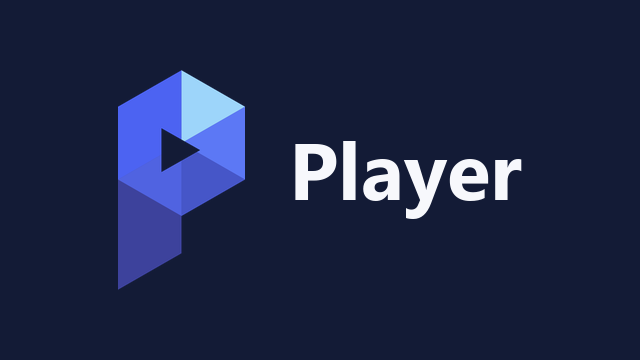
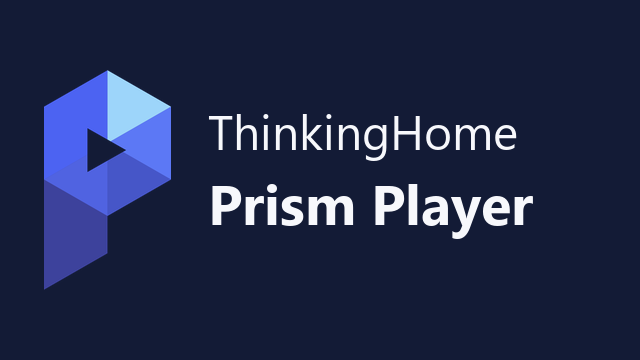
Подготовить Prism Player к распространению только на Android TV
- Сделать поддержку Android TV обязательной и закрепить альбомную ориентацию
- Увеличить launcher-иконки до TV-размеров и обновить баннеры
- Добавить генератор баннера для карточки Google Play
- Повысить versionCode до 26

Changed region(s): [[0.0625, 0.1833, 0.8438, 0.7944]]

diff --git a/assets/android/generate.py b/assets/android/generate.py
@@ -73,6 +73,11 @@ def icon(app, size):
 def banner(app):
     canvas = Image.new("RGBA", (640, 360), PALETTES[app]["background"])
     draw = ImageDraw.Draw(canvas)
+    if app == "Player":
+        paste_logo(canvas, app, 44, 70, 220)
+        draw.text((208, 114), "ThinkingHome", fill="#F7F8FC", font=font(48), anchor="lt")
+        draw.text((208, 184), "Prism Player", fill="#F7F8FC", font=font(56, True), anchor="lt")
+        return canvas
     role_font = font(80, True)
     bounds = draw.textbbox((0, 0), app, font=role_font, anchor="lt")
     text_width, text_height = bounds[2] - bounds[0], bounds[3] - bounds[1]
@@ -113,7 +118,7 @@ for app in PALETTES:
         icon_dir, banner_dir = res / f"mipmap-{density}", res / f"drawable-{density}"
         icon_dir.mkdir(parents=True, exist_ok=True)
         banner_dir.mkdir(parents=True, exist_ok=True)
-        icon(app, round(48 * factor)).save(icon_dir / "ic_launcher.png")
+        icon(app, round((80 if app == "Player" else 48) * factor)).save(icon_dir / "ic_launcher.png")
         master.resize((round(160 * factor), round(90 * factor)), Image.Resampling.LANCZOS).save(banner_dir / "banner.png")
     write(res / "drawable/ic_launcher_foreground.xml", vector(app))
     write(res / "drawable/ic_launcher_monochrome.xml", vector(app, monochrome=True))
@@ -163,7 +168,7 @@ for app in PALETTES:
     ET.parse(res / "values/branding.xml")
     for density, factor in DENSITIES.items():
         with Image.open(res / f"mipmap-{density}/ic_launcher.png") as image:
-            assert image.size == (round(48 * factor),) * 2
+            assert image.size == (round((80 if app == "Player" else 48) * factor),) * 2
         with Image.open(res / f"drawable-{density}/banner.png") as image:
             assert image.size == (round(160 * factor), round(90 * factor))
 print("Generated and validated icons, banners, adaptive/monochrome resources and player idle image.")

diff --git a/assets/android/generate-store-banner.py b/assets/android/generate-store-banner.py
@@ -1,0 +1,24 @@
+"""Render the Google Play TV banner from the original Prism vector logo."""
+from io import BytesIO
+from pathlib import Path
+import cairosvg
+from PIL import Image, ImageDraw, ImageFont
+
+ROOT = Path(__file__).resolve().parents[2]
+OUT = ROOT / 'artifacts/google-play/store-listing'
+OUT.mkdir(parents=True, exist_ok=True)
+scale = 3
+canvas = Image.new('RGB', (1280 * scale, 720 * scale), '#282828')
+source = (ROOT / 'docs/public/images/prism-logo.svg').read_text(encoding='utf-8')
+source = source.replace('viewBox="0 0 432 554"', 'viewBox="80 42 272 470"')
+mark = Image.open(BytesIO(cairosvg.svg2png(bytestring=source.encode(),
+    output_width=208 * scale, output_height=360 * scale))).convert('RGBA')
+canvas.paste(mark, (152 * scale, 180 * scale), mark)
+draw = ImageDraw.Draw(canvas)
+fonts = Path('C:/Windows/Fonts')
+draw.text((440 * scale, 263 * scale), 'ThinkingHome', font=ImageFont.truetype(
+    str(fonts / 'segoeui.ttf'), 46 * scale), fill='#ABABAB', anchor='lt')
+draw.text((436 * scale, 340 * scale), 'Prism Player', font=ImageFont.truetype(
+    str(fonts / 'segoeuib.ttf'), 86 * scale), fill='#E7E7E7', anchor='lt')
+canvas.resize((1280, 720), Image.Resampling.LANCZOS).save(OUT / 'android-tv-banner.png')
+print(OUT / 'android-tv-banner.png')
